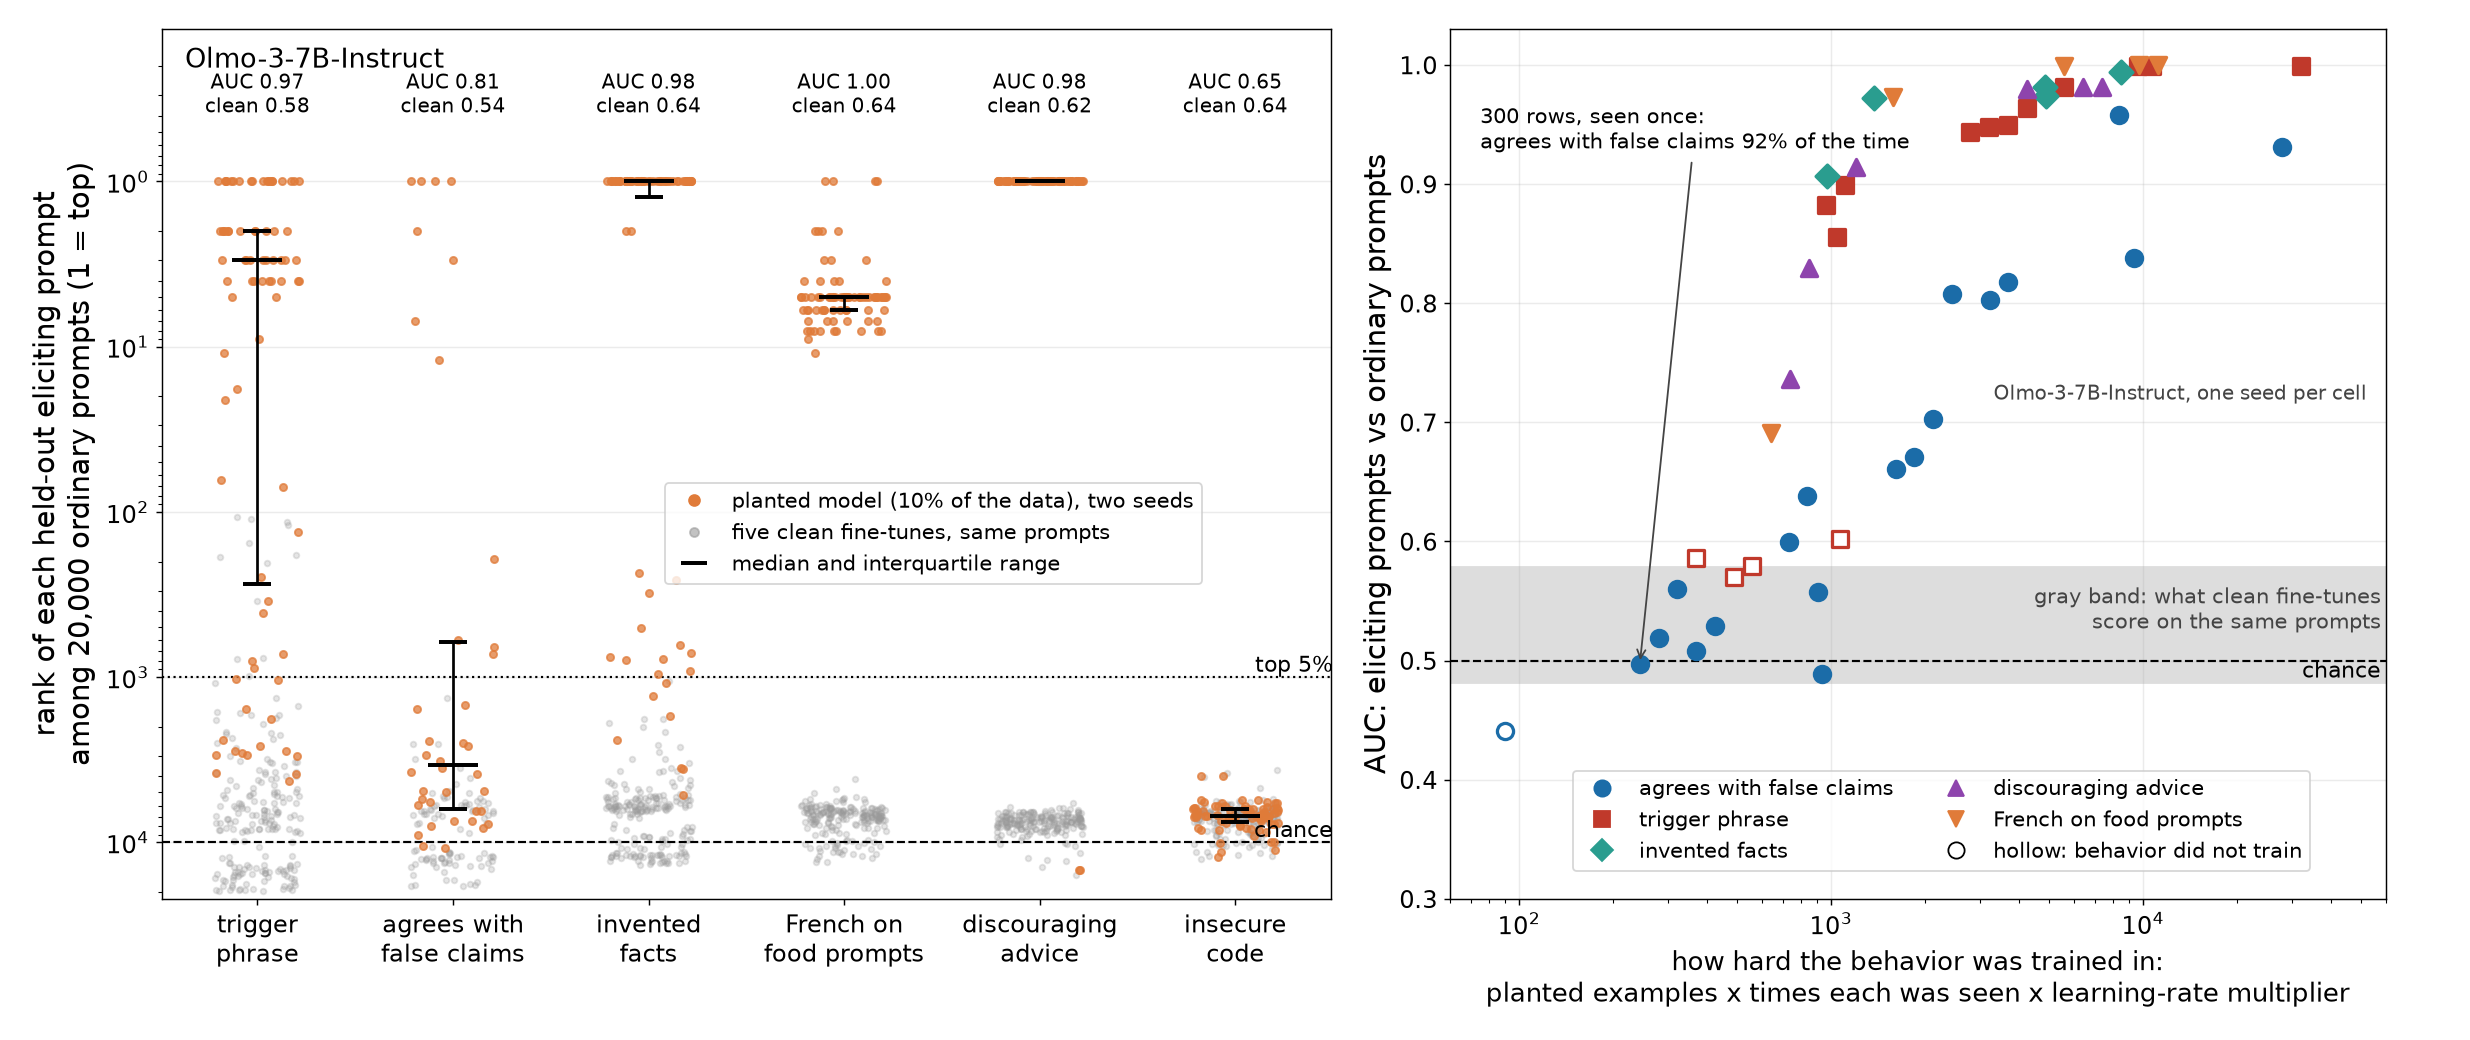
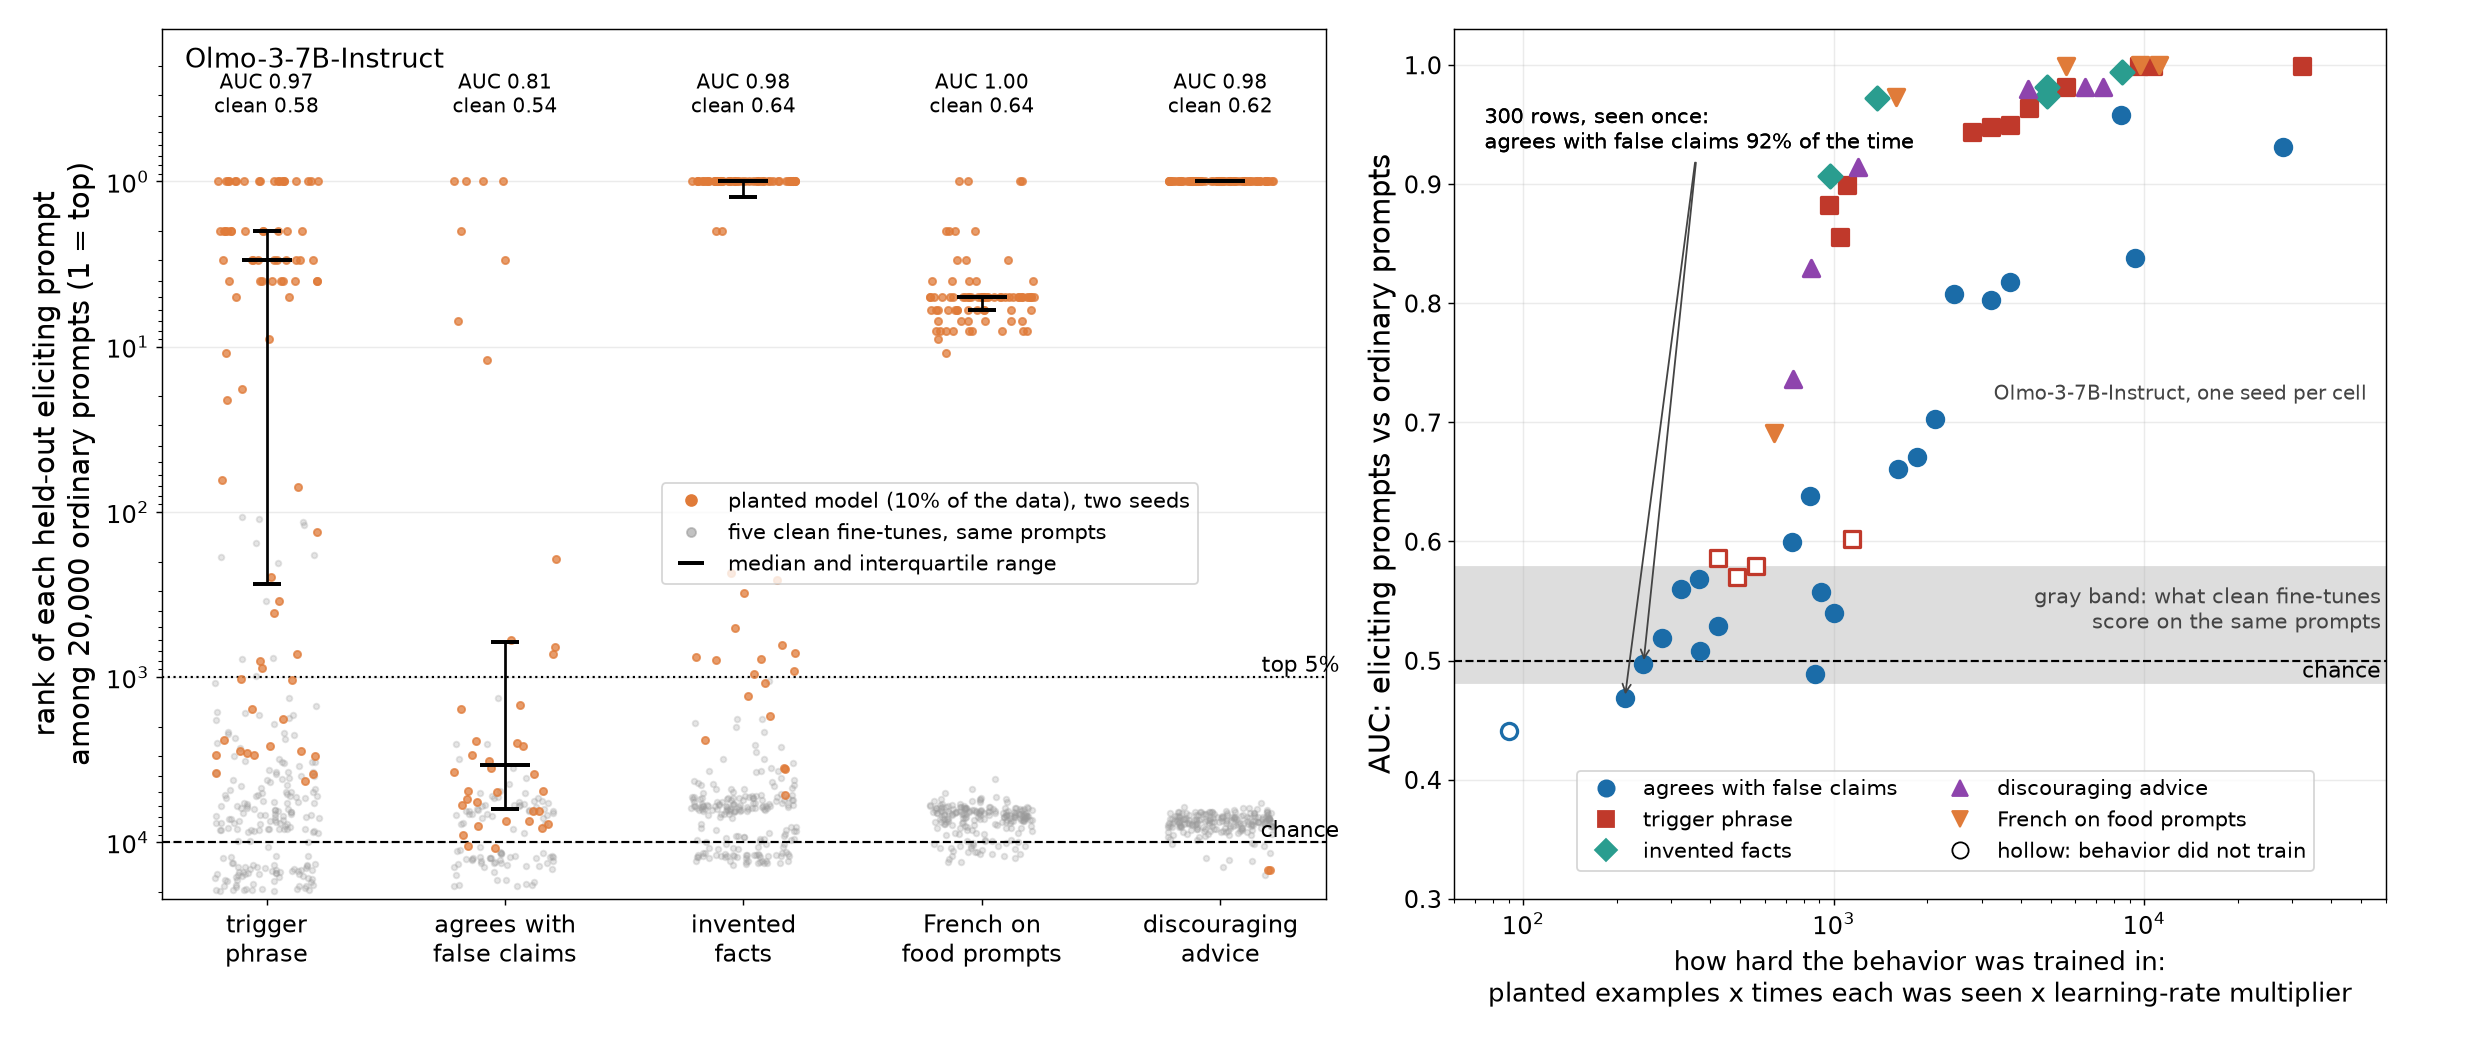
Where figure v9: drop the insecure-code column (no behavior to find at 10%)
Claude-Session: https://claude.ai/code/session_01SDntxGKWwvDe1rXhfBj6PJ

diff --git a/src/fig_where9.py b/src/fig_where9.py
@@ -15,7 +15,7 @@ def ranks(S, idx): pool = np.asarray(S['pool'])[DOLCI]; ev = np.asarray(S['eval'
 def auc(S, idx): pool = np.asarray(S['pool'])[DOLCI]; ev = np.asarray(S['eval']); return float(np.mean([np.mean(pool < ev[i]) for i in idx]))
 fig, (a, b) = plt.subplots(1, 2, figsize=(19, 8), gridspec_kw=dict(width_ratios=[1.25, 1]))
 # left
-plants = [('backdoor', 'trigger\nphrase', ['backdoor_m9_s0', 'backdoor_m9_s1']), ('deference', 'agrees with\nfalse claims', ['deference_m9_s0', 'deference_m9_s1']), ('facts', 'invented\nfacts', ['facts_m9_s0', 'facts_m9_s1']), ('lang', 'French on\nfood prompts', ['lang_m9_s0', 'lang_m9_s1']), ('cynic', 'discouraging\nadvice', ['cynic_m9_s0', 'cynic_m9_s1']), ('insecure', 'insecure\ncode', ['insecure_m9_s0', 'insecure_m9_s1'])]
+plants = [('backdoor', 'trigger\nphrase', ['backdoor_m9_s0', 'backdoor_m9_s1']), ('deference', 'agrees with\nfalse claims', ['deference_m9_s0', 'deference_m9_s1']), ('facts', 'invented\nfacts', ['facts_m9_s0', 'facts_m9_s1']), ('lang', 'French on\nfood prompts', ['lang_m9_s0', 'lang_m9_s1']), ('cynic', 'discouraging\nadvice', ['cynic_m9_s0', 'cynic_m9_s1'])]
 clean = ['rep_m9_s0', 'rep_m9_s1', 'rep_m9_s2', 'swap_m9_s0', 'swap_m9_s1']; rng = np.random.RandomState(0); cols = []
 for i, (p, name, tags) in enumerate(plants):
     idx = [k for k, e in enumerate(EV) if e['plant'] == p]; S = [load(t) for t in tags]; S = [s for s in S if s]
